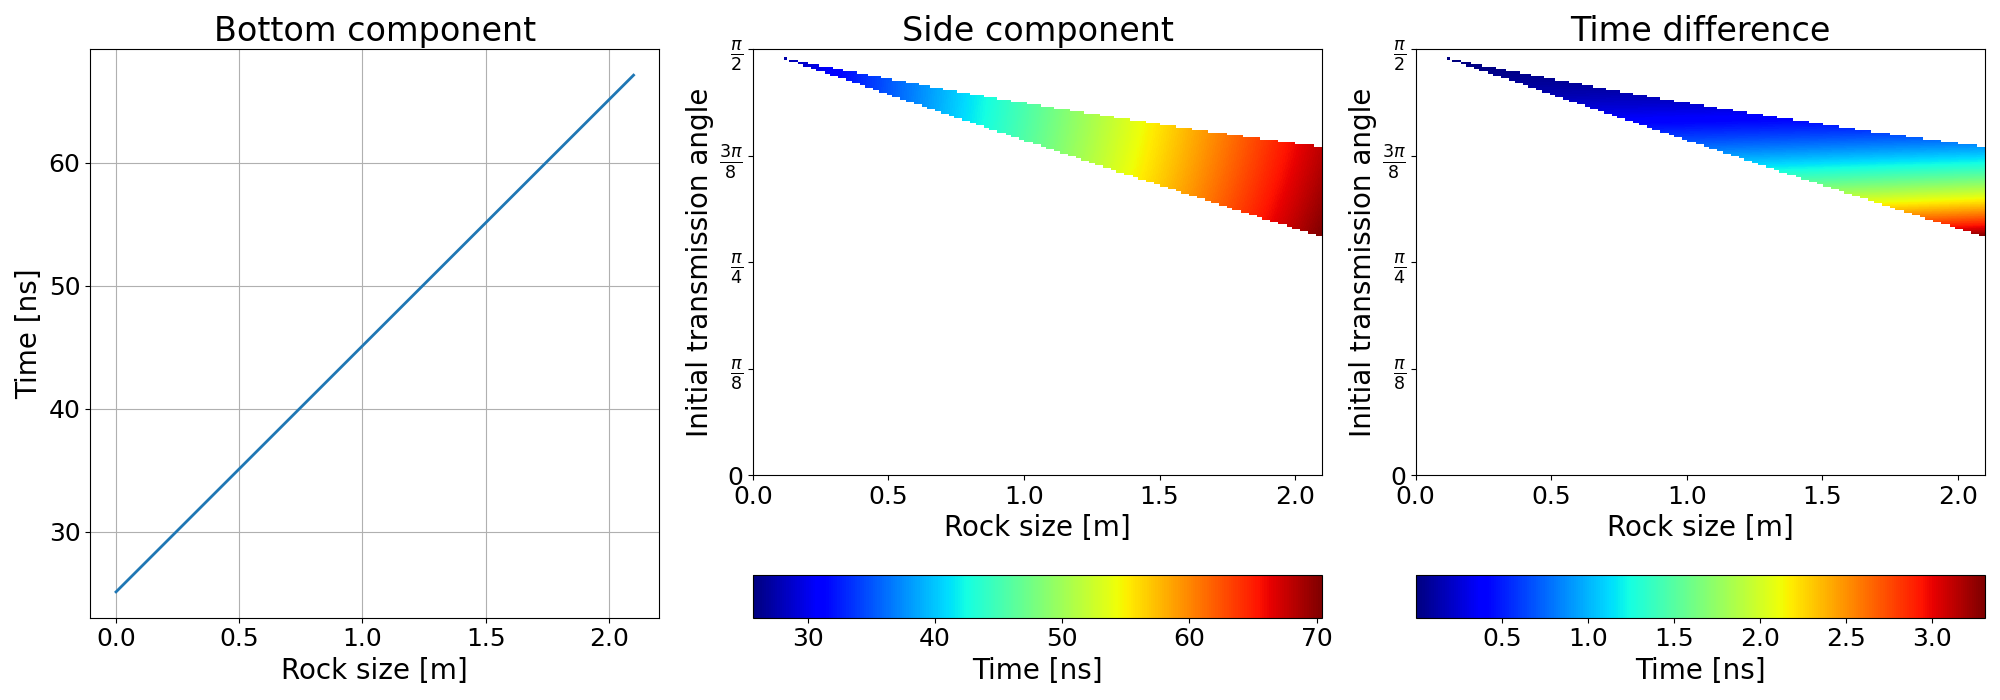
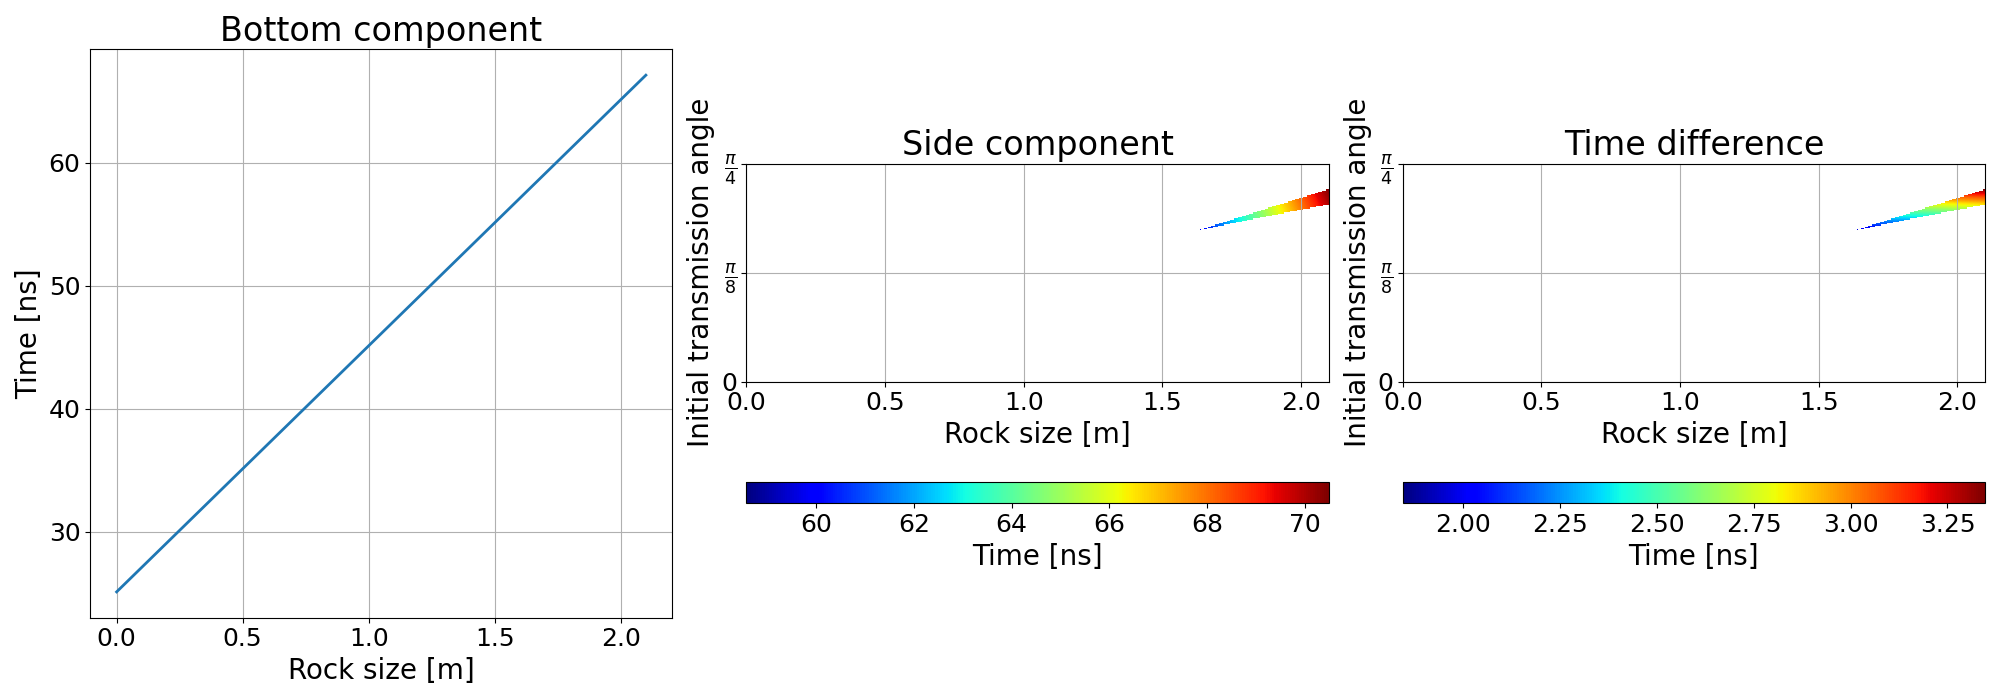
imshowのoriginをミスってることが発覚，修正

diff --git a/kanda_test_programs/propagation_model_square/calc_propagation_time.py b/kanda_test_programs/propagation_model_square/calc_propagation_time.py
@@ -1,6 +1,7 @@
 import numpy as np
 import matplotlib.pyplot as plt
 import mpl_toolkits.axes_grid1 as axgrid1
+from matplotlib.gridspec import GridSpec
 
 # Physical constants
 c0 = 299792458  # Speed of light in vacuum [m/s]
@@ -18,8 +19,8 @@ h_dash = antenna_height
 
 
 #* Parameters
-rock_size_array = np.arange(0, 2.11, 0.01)  # [m]
-theta_array = np.arange(0, np.pi * 181 / 360, np.pi / 360)  # [rad]
+rock_size_array = np.arange(0, 2.101, 0.001)  # [m]
+theta_array = np.arange(0, np.pi * 1/2, np.pi / 720)  # [rad], 0 ~ pi/2
 print('theta:', len(theta_array))
 
 
@@ -38,9 +39,10 @@ print('Ls:', Ls.shape)
 for i, theta in enumerate(theta_array):
     for j, rock_size in enumerate(rock_size_array):
         side_criteria_1 = antenna_height * np.tan(theta) + rock_depth * (np.sin(theta)) / (np.sqrt(3 - np.sin(theta)**2))  # [m]
-        side_criteria_2 = antenna_height * np.tan(theta) + rock_depth * (3 * np.sin(theta)) / (np.sqrt(9 - np.sin(theta)**2))\
+        side_criteria_2 = antenna_height * np.tan(theta) + rock_depth * (np.sin(theta)) / (np.sqrt(9 - np.sin(theta)**2))\
                 + rock_size * (np.sin(theta)) / (np.sqrt(9 - np.sin(theta)**2))  # [m]
         if side_criteria_1 < rock_size/2 and rock_size/2 < side_criteria_2:
+        #if side_criteria_1 < rock_size / 2:
             Ls[i, j] = (antenna_height + h_dash) / np.cos(theta) \
                 + (6 * rock_depth) / (np.sqrt(3 - np.sin(theta)**2)) \
                 + (18 * rock_size) / (np.sqrt(9 - np.sin(theta)**2))  # [m]
@@ -58,6 +60,7 @@ delta_T = Ts - Tb  # [s]
 #* Plot
 fig, ax = plt.subplots(1, 3, figsize=(20, 7), tight_layout=True)
 
+
 #* Plot colormap
 color = 'jet'
 colorbar_size = '10%'
@@ -68,27 +71,16 @@ ax[0].plot(rock_size_array, Tb[0] / 1e-9, label='Bottom', linewidth=2)
 ax[0].set_title('Bottom component', fontsize=24)
 
 ax[0].set_ylabel('Time [ns]', fontsize=20)
-ax[0].grid(axis='both')
 
-"""
-im0 = ax[0].imshow(Tb / 1e-9,
-            extent=(rock_size_array[0], rock_size_array[-1], theta_array[0], theta_array[-1]),
-            cmap = color)
-ax[0].set_title('Bottom component', fontsize=24)
-ax[0].set_ylabel('Initial transmission angle', fontsize=20)
-
-delvider0 = axgrid1.make_axes_locatable(ax[0])
-cax0 = delvider0.append_axes('bottom', size=colorbar_size, pad=colorbar_pad)
-cbar0 = plt.colorbar(im0, cax=cax0, orientation='horizontal')
-cbar0.set_label('Time [ns]', fontsize=20)
-cbar0.ax.tick_params(labelsize=18)
-"""
 
 #* Side component
 
 im1 = ax[1].imshow(Ts / 1e-9,
             extent=(rock_size_array[0], rock_size_array[-1], theta_array[0], theta_array[-1]),
-            cmap = color)
+            origin='lower', # theta=0が下に来るように
+            cmap = color,
+            #min=25, vmax=75
+            )
 ax[1].set_title('Side component', fontsize=24)
 
 delvider1 = axgrid1.make_axes_locatable(ax[1])
@@ -100,7 +92,10 @@ cbar1.ax.tick_params(labelsize=18)
 #* Time difference
 im2 = ax[2].imshow(delta_T / 1e-9,
             extent=(rock_size_array[0], rock_size_array[-1], theta_array[0], theta_array[-1]),
-            cmap = color)
+            origin='lower', # theta=0が下に来るように
+            cmap = color,
+            #vmin=0, vmax=25
+            )
 ax[2].set_title('Time difference', fontsize=24)
 
 delvider2 = axgrid1.make_axes_locatable(ax[2])
@@ -118,10 +113,13 @@ for i in range(3):
 
     ax[i].tick_params(axis='both', labelsize=18)
 
+    ax[i].grid(axis='both')
+
     if i != 0:
         ax[i].set_yticks(y_ticks)
         ax[i].set_yticklabels(y_labels)
         ax[i].set_ylabel('Initial transmission angle', fontsize=20)
+        ax[i].set_ylim(0, np.pi /4)
 
 
 plt.savefig('kanda_test_programs/propagation_model_square/propagation_time.png')
